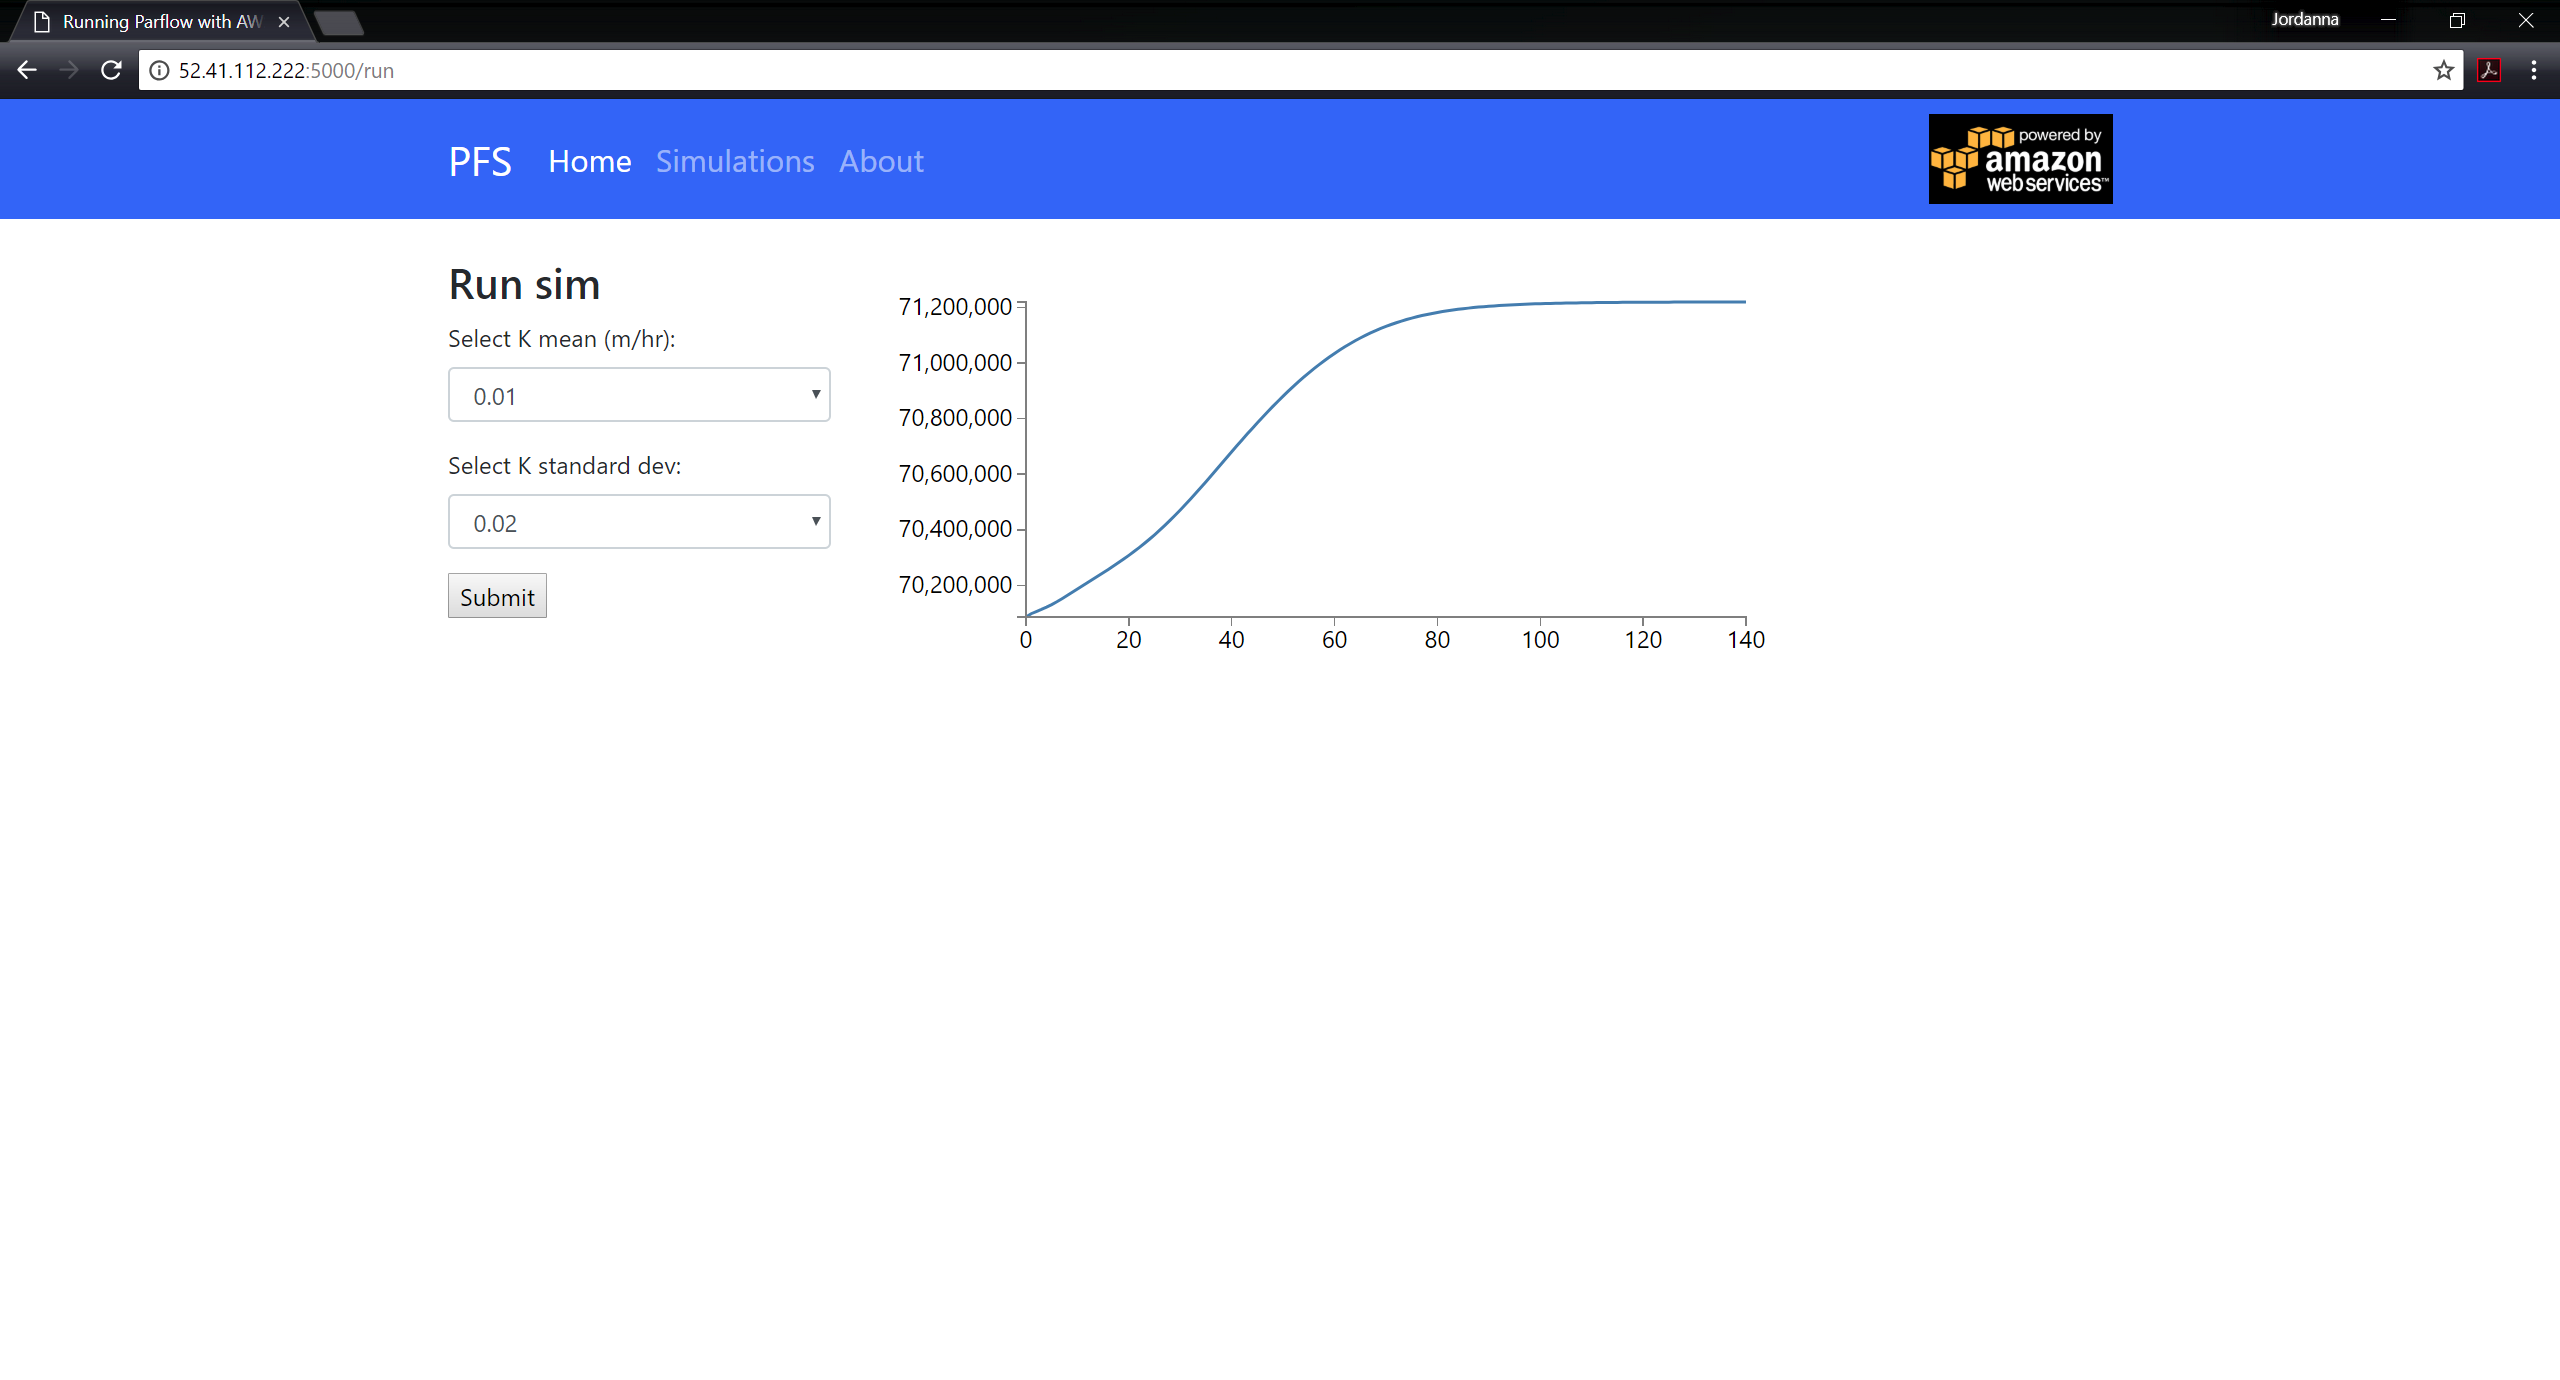
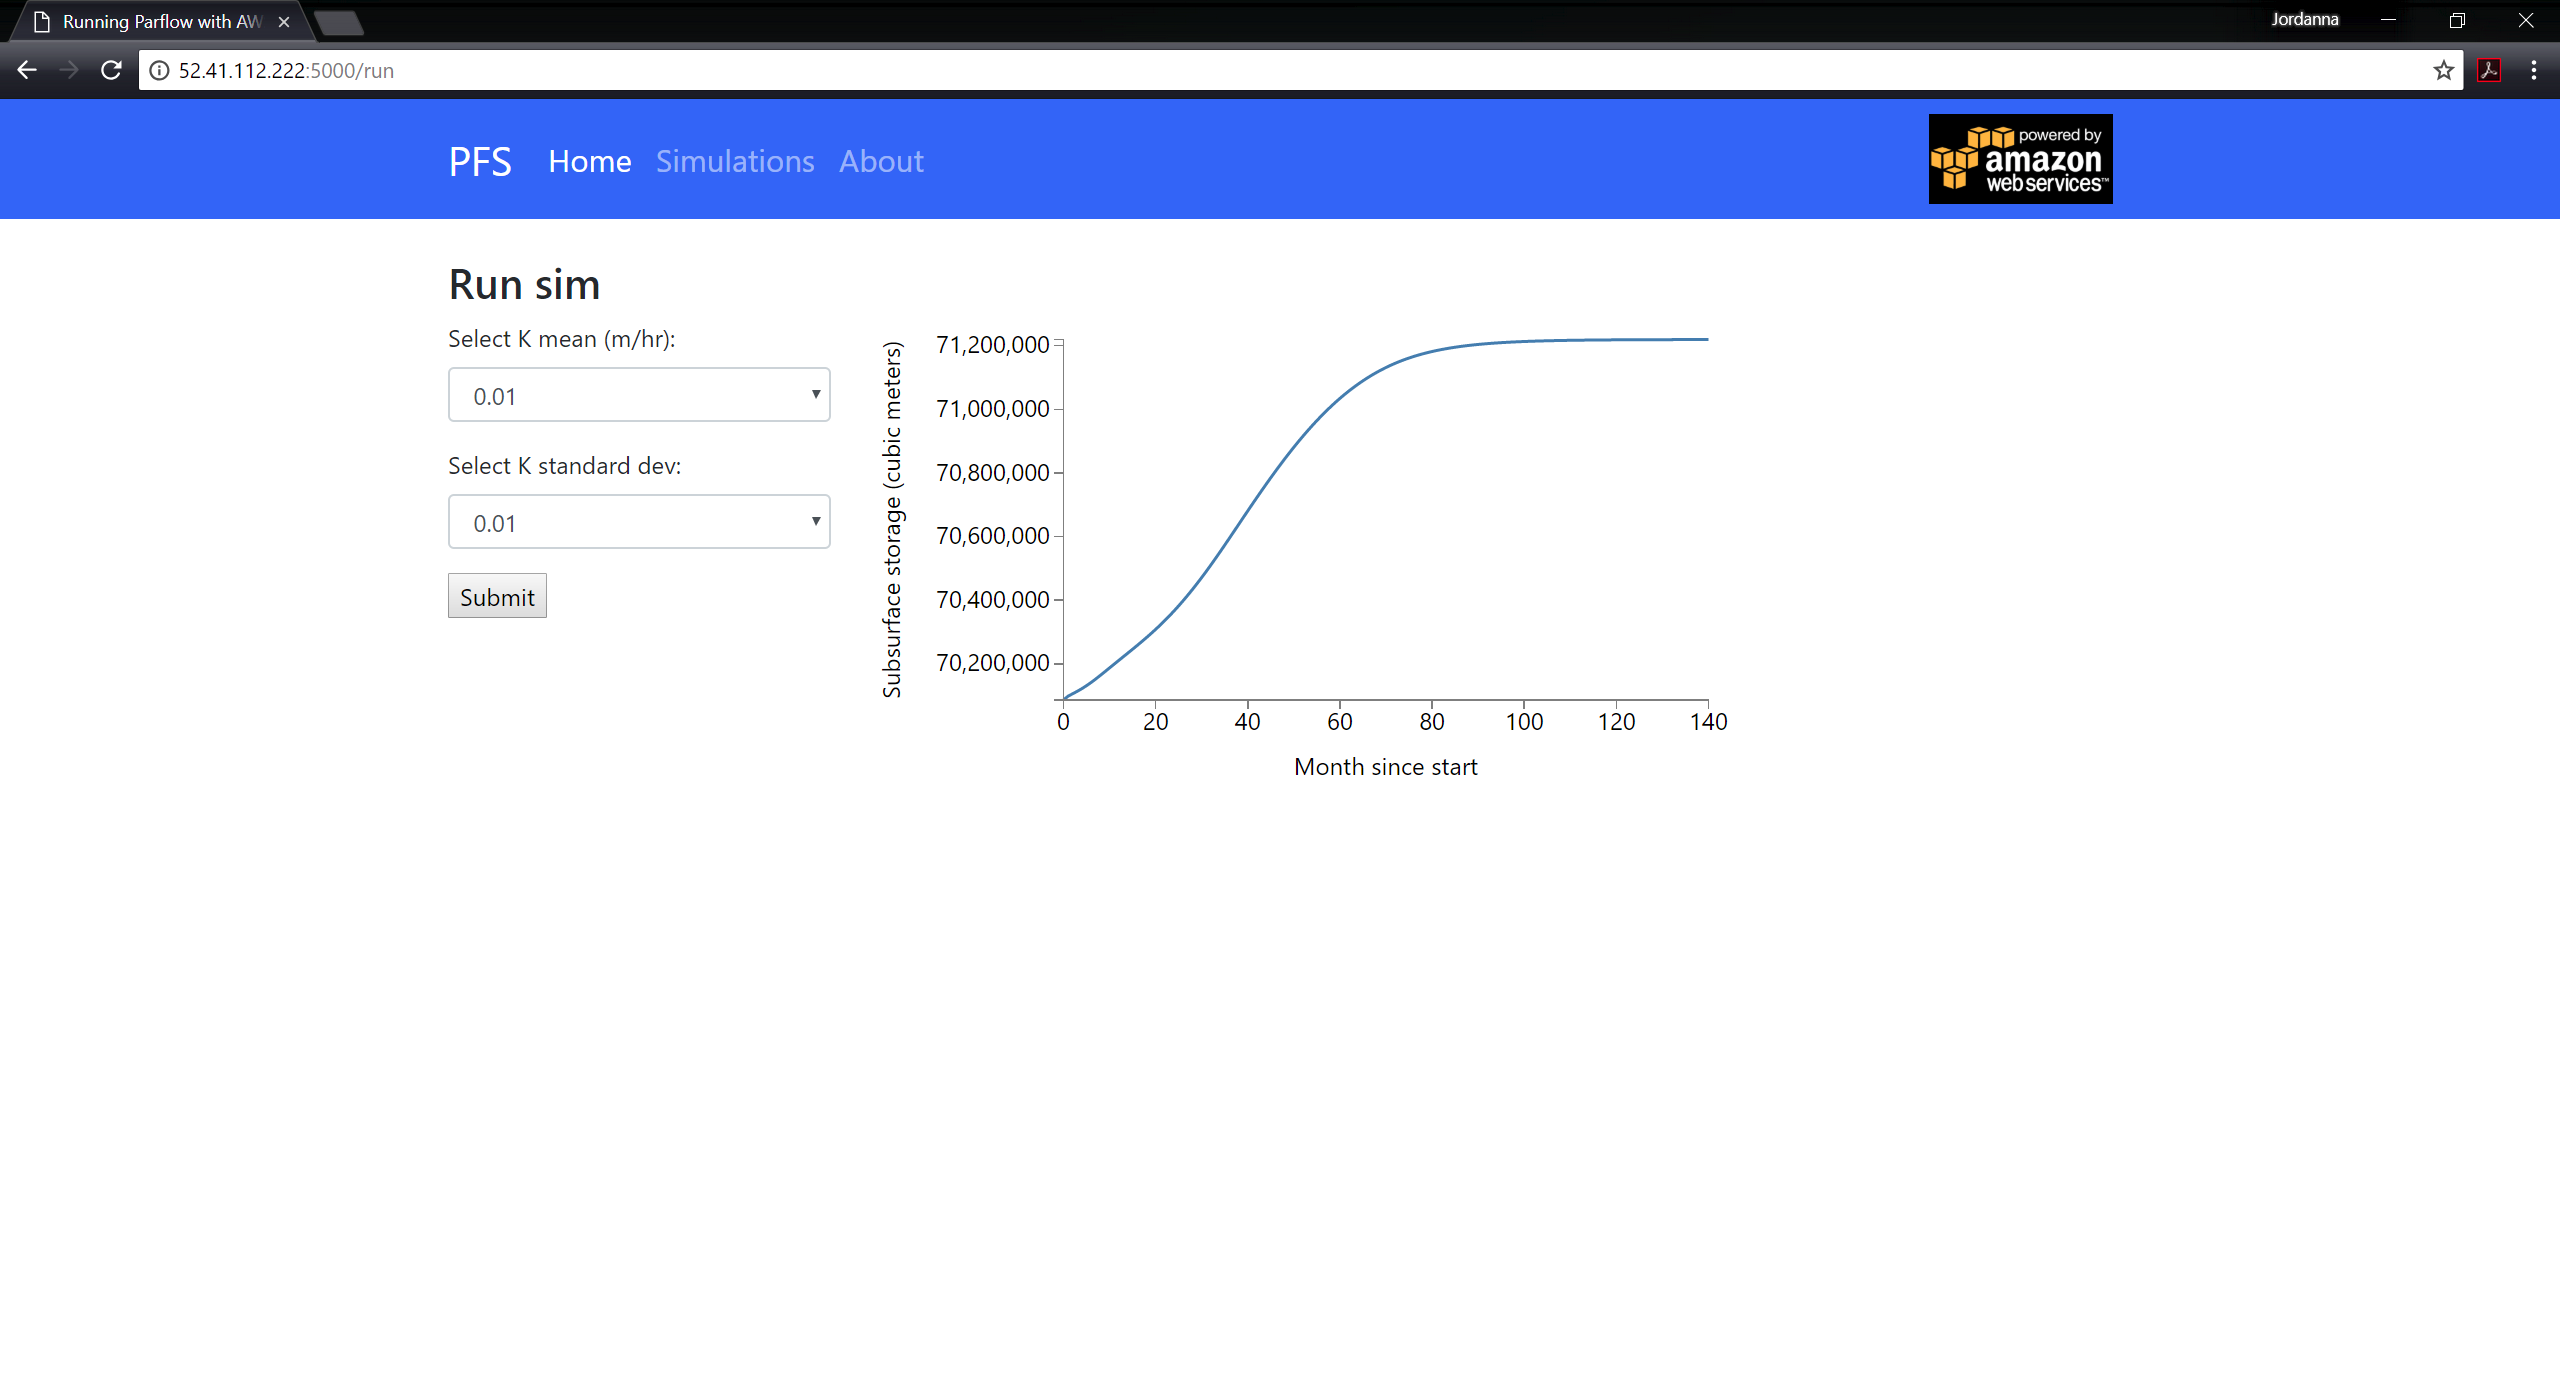
Update d3js plot

diff --git a/web/static/jsPlot.js b/web/static/jsPlot.js
@@ -2,11 +2,13 @@ function plotData(data) {
     // Set the dimensions of the canvas / graph
     var margin = {top: 30, right: 20, bottom: 30, left: 100},
     width = 600 - margin.left - margin.right,
-    height = 270 - margin.top - margin.bottom;
+    height = 350 - margin.top - margin.bottom;
+    var padding = 25;
 
     // Set the ranges
-    var x = d3.scale.linear().range([0, width]);
-    var y = d3.scale.linear().range([height, 0]);
+   // var x = d3.scale.linear().range([0, width]);
+    var x = d3.scale.linear().range([padding, width - padding]);
+    var y = d3.scale.linear().range([height - padding, padding]);
 
     // Define the axes
     var xAxis = d3.svg.axis().scale(x)
@@ -24,7 +26,7 @@ function plotData(data) {
     var svg = d3.select("#plot1")
       .append("svg")
           .attr("width", width + margin.left + margin.right)
-          .attr("height", height + margin.top + margin.bottom)
+          .attr("height", height + margin.top + margin.bottom + padding)
       .append("g")
           .attr("transform",
                 "translate(" + margin.left + "," + margin.top + ")");
@@ -50,12 +52,30 @@ function plotData(data) {
     // Add the X Axis
     svg.append("g")
         .attr("class", "x axis")
-        .attr("transform", "translate(0," + height + ")")
+        //.attr("transform", "translate(0," + height + ")")
+        .attr("transform", "translate(0," + (height - padding) + ")")
         .call(xAxis);
+
+    // text label for the x axis
+    svg.append("text")
+        //.attr("transform", "translate(" + (width /2) + "," + (height + margin.bottom) + ")")
+        .attr("transform", "translate(" + (width /2) + "," + (height + padding) + ")")
+        .style("text-anchor", "middle")
+        .text("Month since start");
 
     // Add the Y Axis
     svg.append("g")
         .attr("class", "y axis")
+        .attr("transform", "translate("+padding+",0)")
         .call(yAxis);
+
+    // text label for the y axis
+    svg.append("text")
+        .attr("transform", "rotate(-90)")
+        .attr("y", 0 - margin.left)
+        .attr("x",0 - (height / 2))
+        .attr("dy", "1em")
+        .style("text-anchor", "middle")
+        .text("Subsurface storage (cubic meters)");
 
 }
